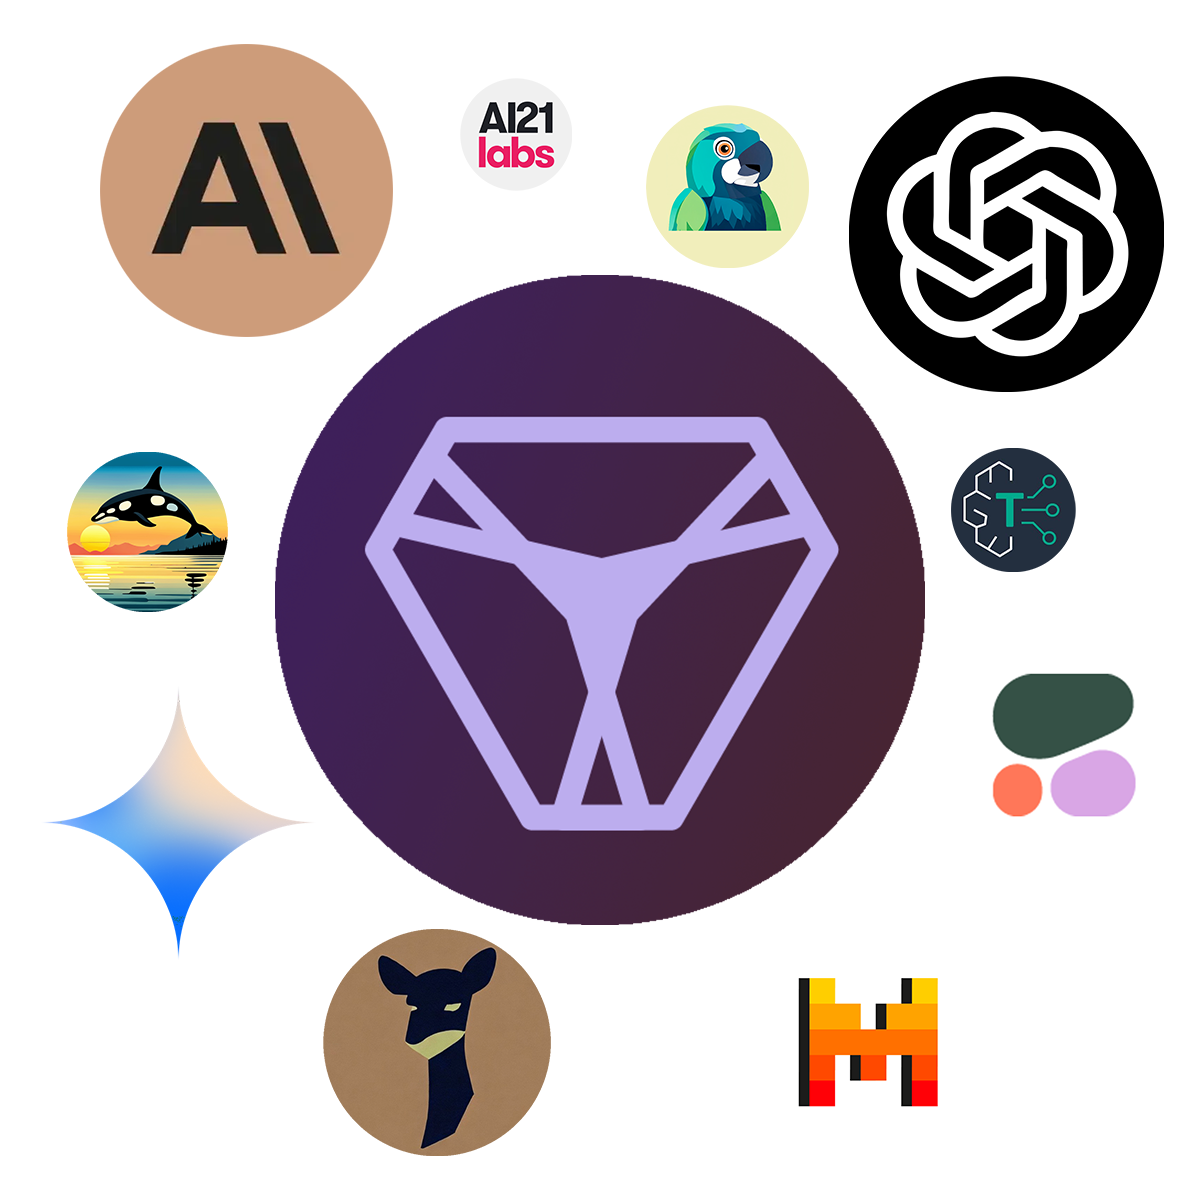
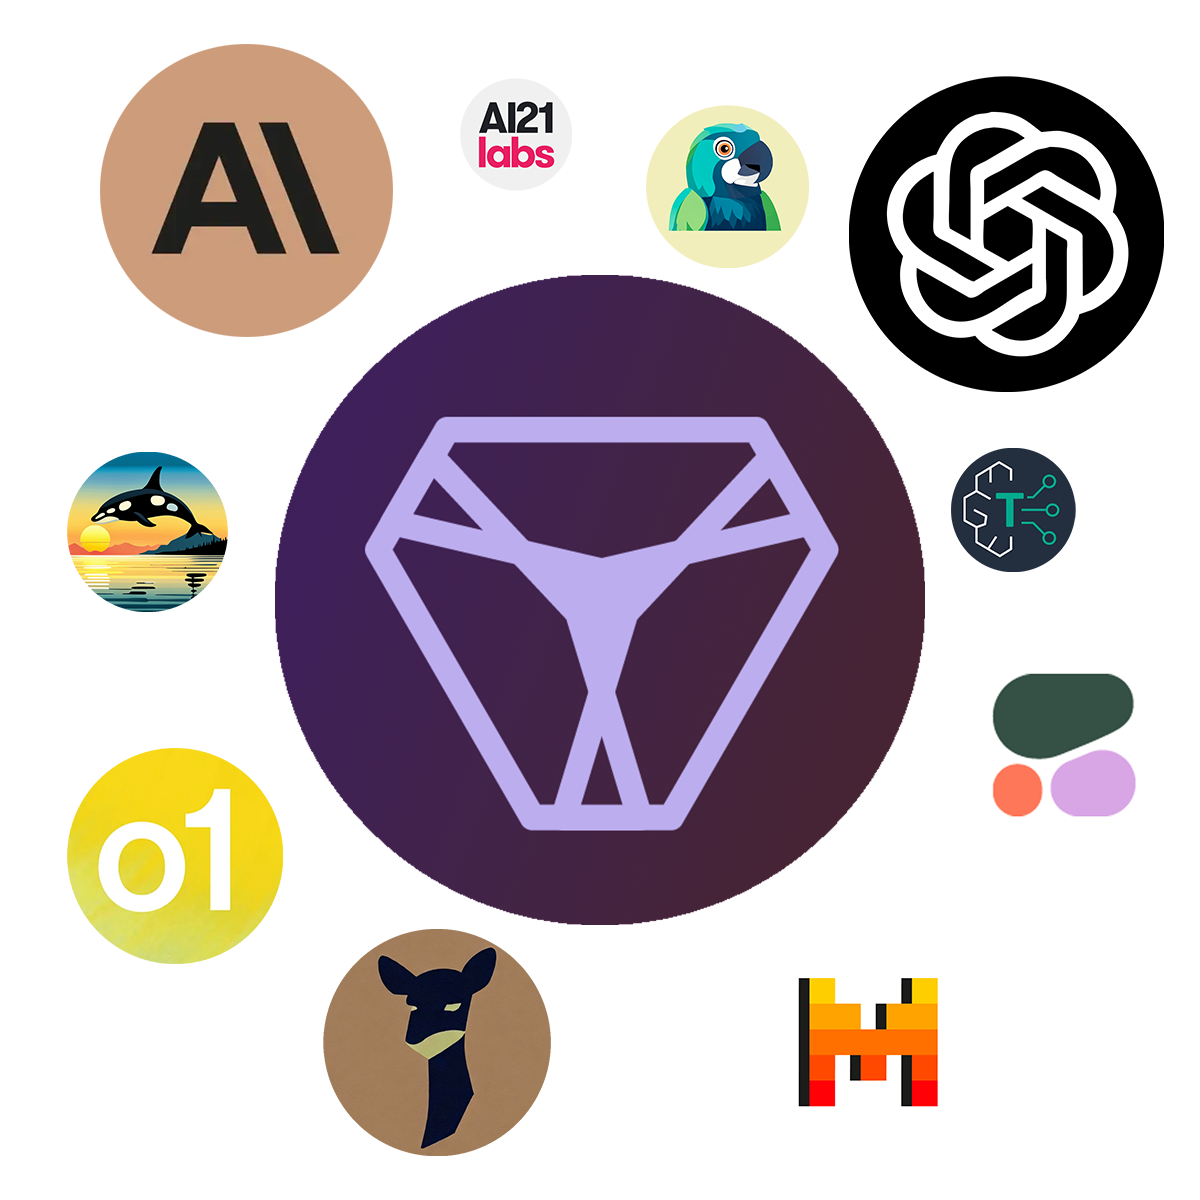
final release

Changed region(s): [[0.0308, 0.5858, 0.2467, 0.8017]]

diff --git a/site/index.html b/site/index.html
@@ -460,7 +460,7 @@
                                 <p class="price">$3.99<span>/month</span></p>
                                 <ul>
                                     <li>Access to Premium Models</li>
-                                    <li>25.000 credits</li>
+                                    <li>25,000 credits</li>
                                     <li>Private Conversations in DMs</li>
                                     <li>50% More XP</li>
                                 </ul>
@@ -473,7 +473,7 @@
                                 <p class="price">$8.99<span>/month</span></p>
                                 <ul>
                                     <li>Access to Premium Models</li>
-                                    <li>100.000 credits</li>
+                                    <li>100,000 credits</li>
                                     <li>Private Conversations in DMs</li>
                                     <li>2x More XP</li>
                                 </ul>
@@ -487,7 +487,7 @@
                                 <p class="price">$19.99<span>/month</span></p>
                                 <ul>
                                     <li>Access to Premium Models</li>
-                                    <li>200.000 credits</li>
+                                    <li>200,000 credits</li>
                                     <li>Private Conversations in DMs</li>
                                     <li>4x More XP</li>
                                     <li>Beta Access</li>
@@ -496,24 +496,7 @@
                             </div>
                         </div>
                     </div>
-                    <div class="plan-category">
-                        <h3 class="category-title">Gemini</h3>
-                        <div class="plan-cards">
-                            <div class="plan-card">
-                                <img src="img/gemini-icon.png"
-                                    class="plan-card-image" alt="gemini">
-                                <h4>Gemini Subscription</h4>
-                                <p class="price">$4.99<span>/month</span></p>
-                                <ul>
-                                    <li>250 messages per day</li>
-                                    <li>Advanced Features</li>
-                                    <li>Longer Concept and Output</li>
-                                    <li>Priority Support</li>
-                                </ul>
-                                <a class="subscribe-btn" href="https://discord.com/application-directory/1196486148046983168/store/1267577604114743357">Subscribe</a>
-                            </div>
-                        </div>
-                    </div>
+
                 </div>
             </section>
         </main>
@@ -539,9 +522,9 @@
                 <div class="footer-section">
                     <h3>Latest Updates</h3>
                     <ul>
+                        <li><a href="changelog.html#v48">v 4.8</a></li>
                         <li><a href="changelog.html#v47">v 4.7</a></li>
                         <li><a href="changelog.html#v46">v 4.6</a></li>
-                        <li><a href="changelog.html#v451">v 4.5.1</a></li>
                         <li><a href="changelog.html#v45">v 4.5</a></li>
                     </ul>
                 </div>

diff --git a/site/about.html b/site/about.html
@@ -302,13 +302,12 @@
                     </div>
                     <div class="footer-section">
                         <h3>Latest Updates</h3>
-                        <ul>
-                            <li><a href="changelog.html#v46">v 4.6</a></li>
-                            <li><a href="changelog.html#v451">v 4.5.1</a></li>
-                            <li><a href="changelog.html#v45geminiv10">v
-                                    4.5</a></li>
-                            <li><a href="changelog.html#v44">v 4.4</a></li>
-                        </ul>
+                            <ul>
+                                <li><a href="changelog.html#v48">v 4.8</a></li>
+                                <li><a href="changelog.html#v47">v 4.7</a></li>
+                                <li><a href="changelog.html#v46">v 4.6</a></li>
+                                <li><a href="changelog.html#v45">v 4.5</a></li>
+                            </ul>
                     </div>
                     <div class="footer-section">
                         <h3>Latest Models</h3>

diff --git a/site/features.html b/site/features.html
@@ -372,11 +372,10 @@ font-style: normal
                     <div class="footer-section">
                         <h3>Latest Updates</h3>
                         <ul>
+                            <li><a href="changelog.html#v48">v 4.8</a></li>
+                            <li><a href="changelog.html#v47">v 4.7</a></li>
                             <li><a href="changelog.html#v46">v 4.6</a></li>
-                            <li><a href="changelog.html#v451">v 4.5.1</a></li>
-                            <li><a href="changelog.html#v45geminiv10">v
-                                    4.5</a></li>
-                            <li><a href="changelog.html#v44">v 4.4</a></li>
+                            <li><a href="changelog.html#v45">v 4.5</a></li>
                         </ul>
                     </div>
                     <div class="footer-section">

diff --git a/site/changelog.html b/site/changelog.html
@@ -240,10 +240,10 @@ font-style: normal
                 <div class="footer-section">
                     <h3>Latest Updates</h3>
                     <ul>
+                        <li><a href="changelog.html#v48">v 4.8</a></li>
+                        <li><a href="changelog.html#v47">v 4.7</a></li>
                         <li><a href="changelog.html#v46">v 4.6</a></li>
-                        <li><a href="changelog.html#v451">v 4.5.1</a></li>
-                        <li><a href="changelog.html#v45geminiv10">v 4.5</a></li>
-                        <li><a href="changelog.html#v44">v 4.4</a></li>
+                        <li><a href="changelog.html#v45">v 4.5</a></li>
                     </ul>
                 </div>
                 <div class="footer-section">

diff --git a/site/models.html b/site/models.html
@@ -600,10 +600,10 @@ font-style: normal
                 <div class="footer-section">
                     <h3>Latest Updates</h3>
                     <ul>
+                        <li><a href="changelog.html#v48">v 4.8</a></li>
+                        <li><a href="changelog.html#v47">v 4.7</a></li>
                         <li><a href="changelog.html#v46">v 4.6</a></li>
-                        <li><a href="changelog.html#v451">v 4.5.1</a></li>
-                        <li><a href="changelog.html#v45geminiv10">v 4.5</a></li>
-                        <li><a href="changelog.html#v44">v 4.4</a></li>
+                        <li><a href="changelog.html#v45">v 4.5</a></li>
                     </ul>
                 </div>
                 <div class="footer-section">

diff --git a/site/contact.html b/site/contact.html
@@ -246,10 +246,10 @@
                 <div class="footer-section">
                     <h3>Latest Updates</h3>
                     <ul>
+                        <li><a href="changelog.html#v48">v 4.8</a></li>
+                        <li><a href="changelog.html#v47">v 4.7</a></li>
                         <li><a href="changelog.html#v46">v 4.6</a></li>
-                        <li><a href="changelog.html#v451">v 4.5.1</a></li>
-                        <li><a href="changelog.html#v45geminiv10">v 4.5</a></li>
-                        <li><a href="changelog.html#v44">v 4.4</a></li>
+                        <li><a href="changelog.html#v45">v 4.5</a></li>
                     </ul>
                 </div>
                 <div class="footer-section">

diff --git a/site/css/main.css b/site/css/main.css
@@ -500,13 +500,13 @@ input:checked+.slider .moon {
 .hero-text h1 {
     font-family: 'Neue Haas Grotesk Display Pro';
     font-size: 6rem;
-    font-weight: 500;
+    font-weight: 600;
     max-width: 100%;
     margin-bottom: 3rem;
 }
 
 .hero-text p {
-    font-family: 'ProximaNova-Regular', sans-serif;
+    font-family: 'Poppins', sans-serif;
     font-size: 1.3rem;
     margin-bottom: 2rem;
     max-width: 50%;

diff --git a/site/js/changelog.js b/site/js/changelog.js
@@ -1,5 +1,13 @@
 const changelogData = [
     {
+        version: "v4.8",
+        changes: [
+            "Upgraded image recognition on gpt-4o-mini",
+            "Fixed some issues with Discord not sending subscription webhooks to our bot",
+            "Assorted Bug Fixes"
+        ]
+    },
+    {
         version: "v4.7",
         changes: [
             "Added OpenAI o1-preview and o1-mini",
